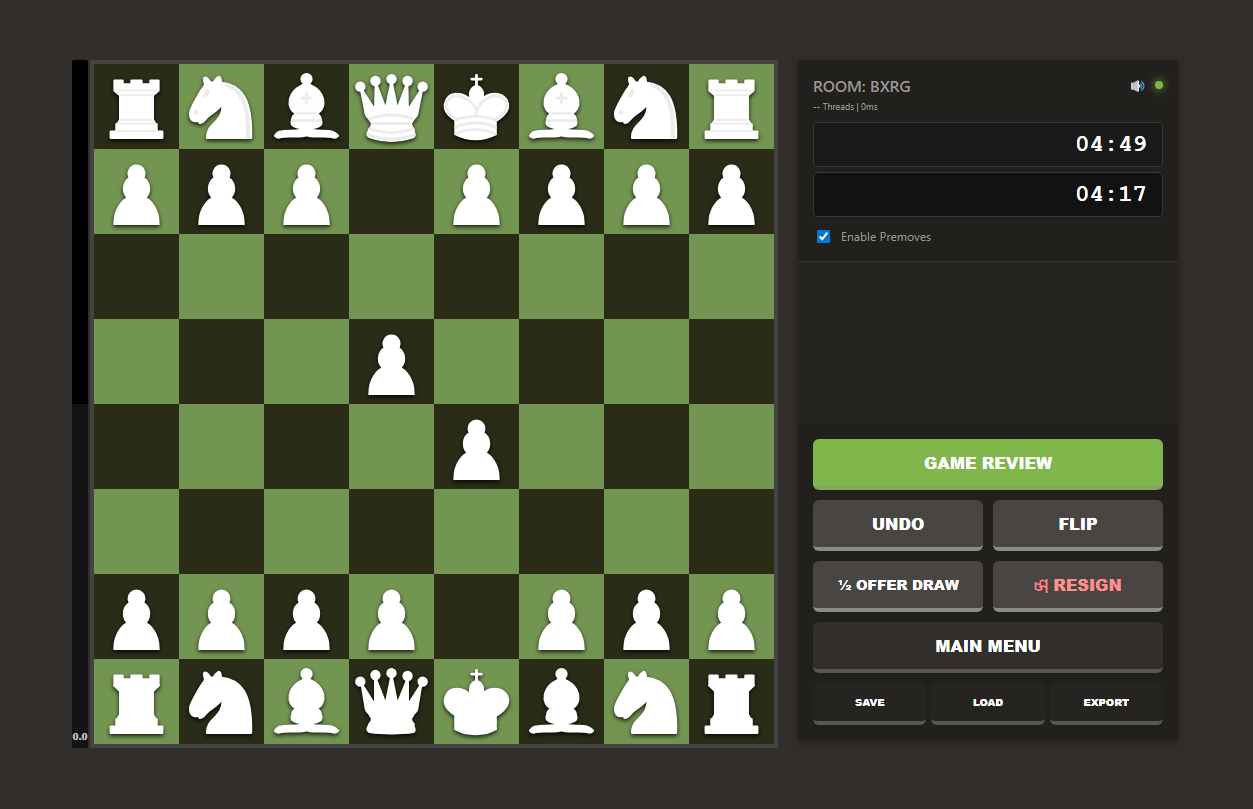
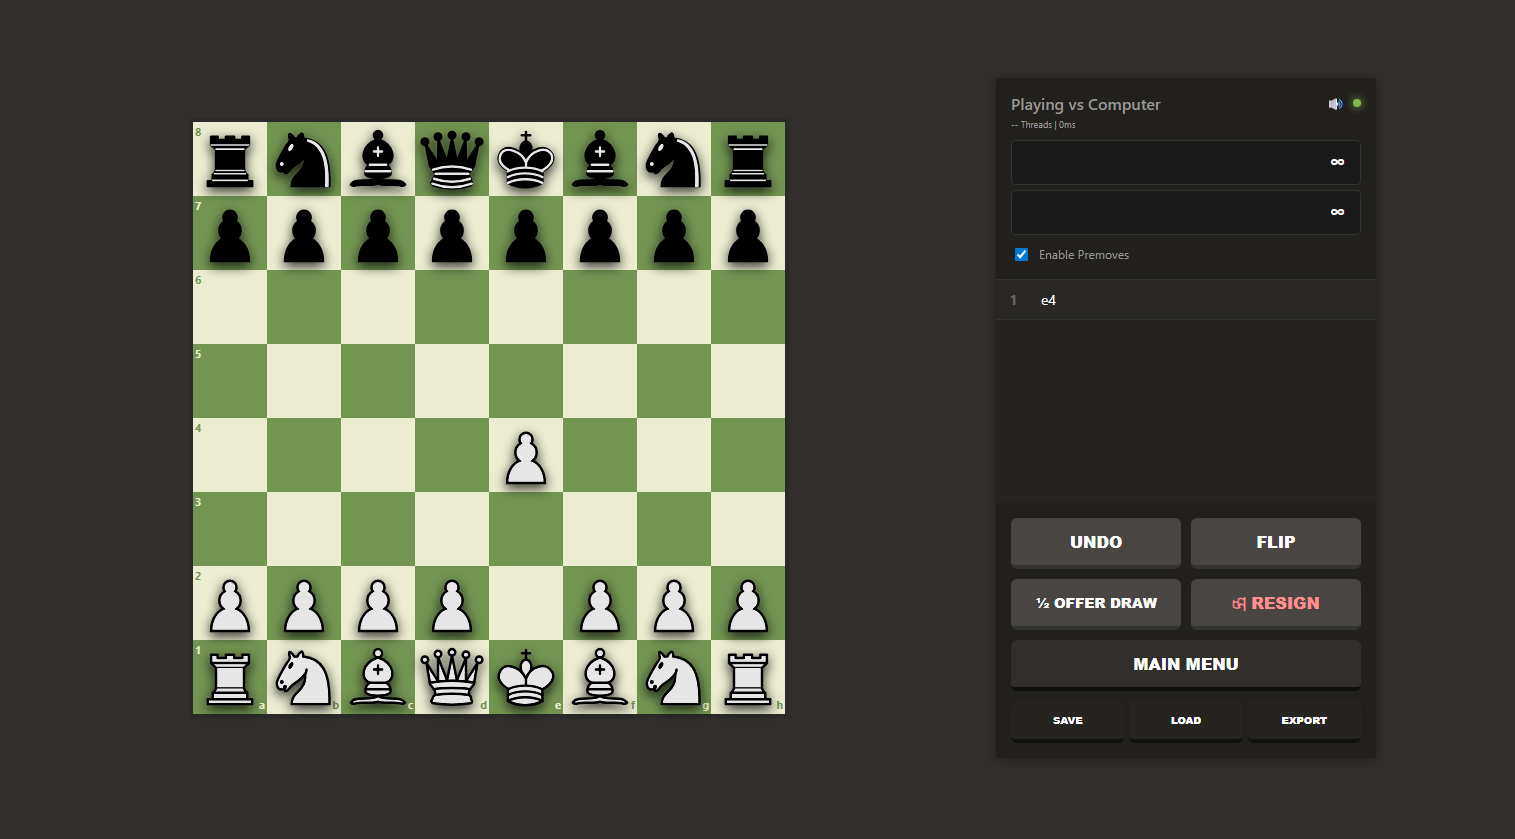
fix: resolve background engine communication by correctly routing UCI commands to the internal engine handler; restores AI moves and puzzle generation

diff --git a/PuzzleGen.html b/PuzzleGen.html
@@ -33,16 +33,23 @@ class EnginePool {
         let mateEval = null;
         let currentTaskId = null;
 
-        // --- ENGINE HOOKING ---
-        // We override Module.print so we can see the engine's output
-        if (typeof Module === 'undefined') self.Module = {};
+        // Capture Stockfish's message handler before we overwrite it
+        const originalOnMessage = self.onmessage;
         
-        const originalPrint = Module.print || ((x) => self.postMessage(x));
+        // Helper to talk to Stockfish engine
+        function sendToEngine(cmd) {
+          if (typeof originalOnMessage === 'function') {
+            originalOnMessage({ data: cmd });
+          }
+        }
+
+        // Hook into engine output
+        if (typeof Module === 'undefined') self.Module = {};
         Module.print = function(line) {
           if (typeof line === 'string') {
             processEngineLine(line);
           }
-          // Always send raw output back to main thread for the eval bar
+          // Pass raw lines back to main thread for the eval bar
           self.postMessage(line);
         };
 
@@ -75,8 +82,8 @@ class EnginePool {
                    game.move(parts[1], {sloppy: true});
                    extractionDepth = 1;
                    state = 'EXTRACT_RESPONSE';
-                   self.postMessage('position fen ' + game.fen());
-                   self.postMessage('go depth 10');
+                   sendToEngine('position fen ' + game.fen());
+                   sendToEngine('go depth 10');
                    return;
                  }
               }
@@ -91,8 +98,8 @@ class EnginePool {
                    if (extractionDepth < 3 && !game.game_over()) {
                       extractionDepth++;
                       state = state === 'EXTRACT_RESPONSE' ? 'EXTRACT_MOVE' : 'EXTRACT_RESPONSE';
-                      self.postMessage('position fen ' + game.fen());
-                      self.postMessage('go depth 10');
+                      sendToEngine('position fen ' + game.fen());
+                      sendToEngine('go depth 10');
                       return;
                    }
                  }
@@ -107,10 +114,9 @@ class EnginePool {
           }
         }
 
-        // --- PUZZLE LOGIC ---
         function generateRandomGame() {
           game.reset();
-          const numMoves = 10 + Math.floor(Math.random() * 20);
+          const numMoves = 12 + Math.floor(Math.random() * 15);
           for(let i=0; i<numMoves; i++) {
             if(game.game_over()) break;
             const moves = game.moves();
@@ -124,14 +130,11 @@ class EnginePool {
           solutionMoves = [];
           initialFen = generateRandomGame();
           state = 'EVAL_INITIAL';
-          self.postMessage('position fen ' + initialFen);
-          self.postMessage('go depth 10');
+          sendToEngine('position fen ' + initialFen);
+          sendToEngine('go depth 10');
         }
 
-        // --- MESSAGE WRAPPING ---
-        // We intercept self.onmessage so we can handle our own control messages
-        // while passing everything else to Stockfish.
-        const originalOnMessage = self.onmessage;
+        // Handle messages from the main thread
         self.onmessage = function(e) {
           if (!e.data) return;
           
@@ -143,22 +146,20 @@ class EnginePool {
             state = e.data.type === 'EVAL_EVALUATE' ? 'LIVE_EVAL' : 'BATCH_EVAL';
             currentTaskId = e.data.taskId || null;
             lastEval = 0; mateEval = null;
-            self.postMessage('stop');
-            self.postMessage('position fen ' + e.data.fen);
-            self.postMessage('go depth ' + (e.data.depth || 12));
+            sendToEngine('stop');
+            sendToEngine('position fen ' + e.data.fen);
+            sendToEngine('go depth ' + (e.data.depth || 12));
             return;
           }
           
-          // Pass-through to Stockfish's real onmessage handler
-          if (typeof originalOnMessage === 'function') {
-            originalOnMessage(e);
-          }
+          // Fallback: send directly to original handler if it's a raw command
+          if (typeof originalOnMessage === 'function') originalOnMessage(e);
         };
 
-        // Trigger UCI handshake
+        // Initialize UCI
         setTimeout(() => {
-          self.postMessage('uci');
-          self.postMessage('isready');
+          sendToEngine('uci');
+          sendToEngine('isready');
         }, 200);
       `;
 
@@ -169,6 +170,7 @@ class EnginePool {
         const worker = new Worker(blobUrl);
         worker.isBusy = false;
         worker.onmessage = (e) => this.handleWorkerMessage(worker, e);
+        worker.onerror = (err) => console.error("Worker Error:", err);
         this.workers.push(worker);
       }
       this.isInitialized = true;
@@ -178,7 +180,6 @@ class EnginePool {
   }
 
   handleWorkerMessage(worker, e) {
-    // Check if it's a raw engine line or a wrapped result
     const data = e.data;
     if (!data) return;
 
@@ -198,7 +199,6 @@ class EnginePool {
       worker.isBusy = false;
       this.processQueue();
     } else if (typeof data === 'string') {
-      // Pass raw lines to global onEvalResult for the eval bar
       if (this.onEvalResult) this.onEvalResult(null, null, 'raw', null, data);
     }
   }
@@ -247,7 +247,7 @@ setTimeout(() => {
     if (puzzleBuffer.length < 3) enginePool.generate();
   };
   enginePool.generate();
-}, 3000);
+}, 4000);
 
 function startOfflinePuzzle() {
   if (typeof isGamePaused !== 'undefined') isGamePaused = false;